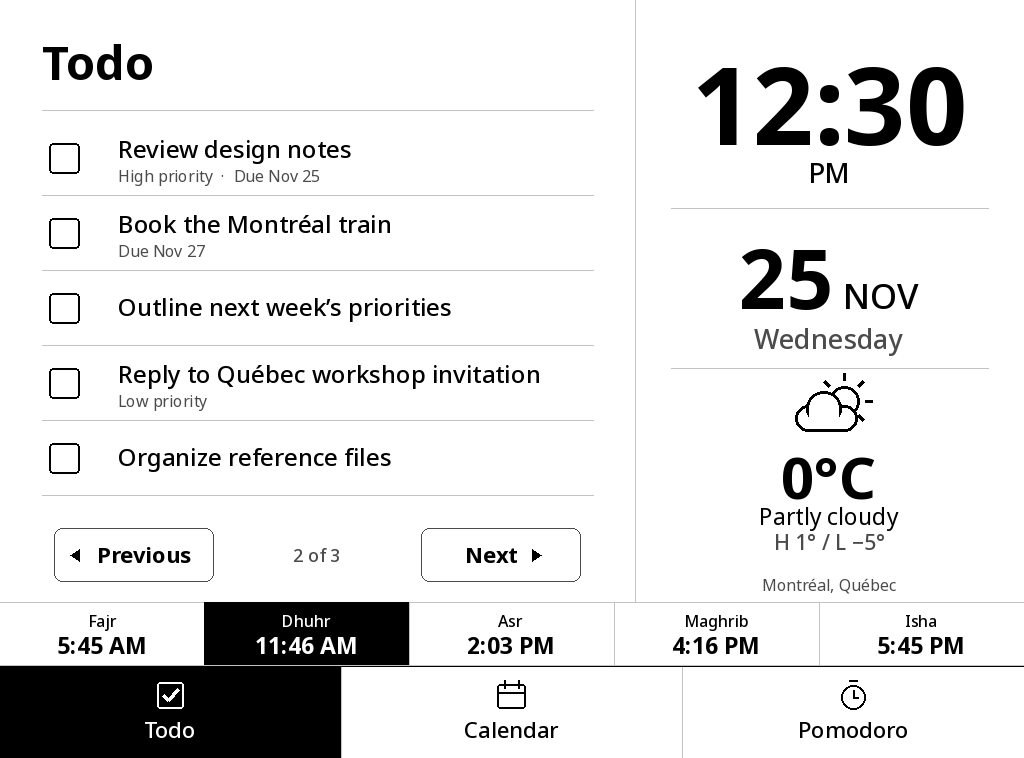
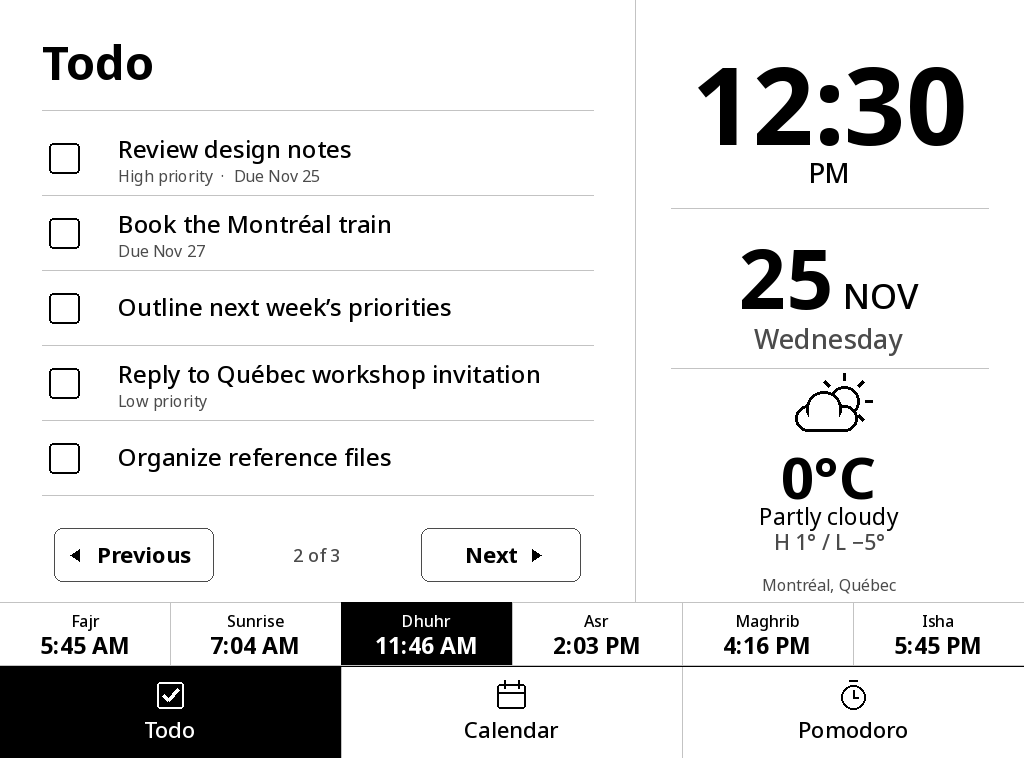
Show Sunrise after Fajr in the Salat strip

diff --git a/backend/tests/test_prayer_times.py b/backend/tests/test_prayer_times.py
@@ -35,10 +35,13 @@ def month_fixtures(month, fajr_hour=6):
 
 
 def schedules(month, fajr_hour=6):
-    return {
-        local.date().isoformat(): [datetime.fromisoformat(value).astimezone(UTC).isoformat() for value in times]
-        for local, times in month_fixtures(month, fajr_hour)
-    }
+    days = {}
+    sunrises = {}
+    for local, times in month_fixtures(month, fajr_hour):
+        day = local.date().isoformat()
+        days[day] = [datetime.fromisoformat(value).astimezone(UTC).isoformat() for value in times]
+        sunrises[day] = local.replace(hour=8, minute=local.day).astimezone(UTC).isoformat()
+    return {**days, "sunrise": sunrises}
 
 
 def test_aladhan_month_timezone_and_calculation_parameters(monkeypatch):
@@ -49,7 +52,10 @@ def test_aladhan_month_timezone_and_calculation_parameters(monkeypatch):
         rows = [{
             "date": {"gregorian": {"date": local.strftime("%d-%m-%Y")}},
             "meta": {"timezone": TORONTO.key},
-            "timings": dict(zip(prayers.PRAYERS, values, strict=True)),
+            "timings": {
+                **dict(zip(prayers.PRAYERS, values, strict=True)),
+                "Sunrise": local.replace(hour=8, minute=local.day).isoformat(),
+            },
         } for local, values in month_fixtures("2026-03")]
         return BytesIO(json.dumps({"code": 200, "data": rows}).encode())
 
@@ -67,6 +73,8 @@ def test_aladhan_month_timezone_and_calculation_parameters(monkeypatch):
     assert result["2026-03-07"][0].startswith("2026-03-07T11:07")
     assert result["2026-03-08"][0].startswith("2026-03-08T10:08")
     assert prayers.time_label(datetime.fromisoformat(result["2026-03-08"][0])) == "6:08 AM"
+    assert result["sunrise"]["2026-03-07"].startswith("2026-03-07T13:07")
+    assert result["sunrise"]["2026-03-08"].startswith("2026-03-08T12:08")
 
 
 def test_current_prayer_through_midnight_and_month_boundary(tmp_path, monkeypatch):
@@ -130,6 +138,20 @@ def test_fall_dst_offline_restart_and_setting_changes(tmp_path, monkeypatch):
         assert prayers.prayer_preferences(session) == initial
         result = prayers.prayer_day(session, initial, now, include_update=True)
         assert result.today[0] == "6:01 AM" and result.current_name == "Fajr" and result.updated_at
+        assert result.sunrise == "8:01 AM"
+        for month in prayers.months_to_cache(now):
+            row = session.get(PrayerMonth, (initial.cache_key(), month))
+            row.days = {day: values for day, values in row.days.items() if day != "sunrise"}
+        session.commit()
+    assert not cache.refresh(reopened, initial, now)
+    with reopened.sessions() as session:
+        legacy = prayers.prayer_day(session, initial, now)
+        assert legacy.sunrise == "--:--" and legacy.today == result.today
+    monkeypatch.setattr(prayers, "fetch_month", fetch)
+    assert prayers.PrayerCache().refresh(reopened, initial, now)
+    with reopened.sessions() as session:
+        assert prayers.prayer_day(session, initial, now).sunrise == "8:01 AM"
+    monkeypatch.setattr(prayers, "fetch_month", offline)
     alternates = initial.model_copy(update={"school": 1})
     assert not cache.refresh(reopened, alternates, now)
     assert not cache.refresh(reopened, alternates, now)
@@ -220,12 +242,15 @@ def test_admin_frame_geometry_and_device_actions(tmp_path, monkeypatch):
 
 def test_same_noninteractive_strip_and_highlight_on_all_pages():
     now = datetime(2026, 11, 25, 12, 30, tzinfo=TORONTO)
-    salat = prayers.PrayerDay(("6:00 AM", "12:00 PM", "3:00 PM", "5:00 PM", "7:00 PM"), "Asr")
+    salat = prayers.PrayerDay(("6:00 AM", "12:00 PM", "3:00 PM", "5:00 PM", "7:00 PM"), "Asr", sunrise="8:00 AM")
     def strip(page, values):
         with Image.open(BytesIO(render_landscape(page, now, "Montréal", Weather("unavailable"), prayers=values))) as png:
             return png.crop((0, PRAYER_Y, WIDTH, NAV_Y))
     strips = [strip(page, salat) for page in ("todo", "calendar", "pomodoro")]
     assert strips[0].tobytes() == strips[1].tobytes() == strips[2].tobytes()
-    assert [strips[0].getpixel((index * WIDTH // 5 + 10, 12)) for index in range(5)] == [255, 255, 0, 255, 255]
+    assert [strips[0].getpixel((index * WIDTH // 6 + 10, 12)) for index in range(6)] == [255, 255, 255, 0, 255, 255]
+    sunrise_cell = (WIDTH // 6 + 1, 0, WIDTH // 3, NAV_Y - PRAYER_Y)
+    legacy = strip("todo", prayers.PrayerDay(salat.today, salat.current_name))
+    assert strips[0].crop(sunrise_cell).tobytes() != legacy.crop(sunrise_cell).tobytes()
     offline = strip("todo", prayers.PrayerDay())
-    assert all(offline.getpixel((index * WIDTH // 5 + 10, 12)) == 255 for index in range(5))
+    assert all(offline.getpixel((index * WIDTH // 6 + 10, 12)) == 255 for index in range(6))

diff --git a/backend/app/services/prayer_times.py b/backend/app/services/prayer_times.py
@@ -71,6 +71,7 @@ class PrayerDay:
     today: tuple[str, ...] = ("--:--",) * len(PRAYERS)
     current_name: str | None = None
     updated_at: str | None = None
+    sunrise: str = "--:--"
 
 
 def prayer_preferences(db) -> PrayerPreferences:
@@ -114,18 +115,23 @@ def fetch_month(config: PrayerPreferences, month: str) -> dict:
     if payload["code"] != 200:
         raise ValueError("AlAdhan did not return a schedule")
     days = {}
+    sunrises = {}
     for row in payload["data"]:
         day = datetime.strptime(row["date"]["gregorian"]["date"], "%d-%m-%Y").date()
         if month_key(day) != month or row["meta"]["timezone"] != TORONTO.key:
             raise ValueError("Wrong schedule month or timezone")
         instants = [datetime.fromisoformat(row["timings"][name]) for name in PRAYERS]
+        sunrise = datetime.fromisoformat(row["timings"]["Sunrise"])
         if any(moment.utcoffset() is None or
-               moment.astimezone(TORONTO).utcoffset() != moment.utcoffset() for moment in instants):
+               moment.astimezone(TORONTO).utcoffset() != moment.utcoffset() for moment in (*instants, sunrise)):
             raise ValueError("Invalid prayer time offset")
-        days[day.isoformat()] = [moment.astimezone(UTC).isoformat() for moment in instants]
+        day_key = day.isoformat()
+        days[day_key] = [moment.astimezone(UTC).isoformat() for moment in instants]
+        sunrises[day_key] = sunrise.astimezone(UTC).isoformat()
     if len(days) != monthrange(year, number)[1]:
         raise ValueError("Incomplete prayer month")
-    return days
+    # Keep the five-value daily rows readable by releases that predate Sunrise.
+    return {**days, "sunrise": sunrises}
 
 
 def time_label(moment: datetime) -> str:
@@ -150,7 +156,11 @@ def prayer_day(db, config: PrayerPreferences, now: datetime, *, include_update=F
     started = ((moment, name) for moment, name in zip(moments, PRAYERS, strict=True) if moment <= current)
     # Before Fajr, the active slot is still the previous day's Isha.
     _, current_name = max(started, key=lambda prayer: prayer[0], default=(None, "Isha"))
-    return PrayerDay(tuple(map(time_label, moments)), current_name, updated_at=updated_at)
+    sunrise = row.days.get("sunrise", {}).get(today.isoformat())
+    return PrayerDay(
+        tuple(map(time_label, moments)), current_name, updated_at=updated_at,
+        sunrise=time_label(datetime.fromisoformat(sunrise)) if sunrise else "--:--",
+    )
 
 
 class PrayerCache:
@@ -170,7 +180,8 @@ class PrayerCache:
             for month in months_to_cache(now):
                 key = (config.cache_key(), month)
                 with database.sessions() as db:
-                    if not force and db.get(PrayerMonth, key):
+                    cached = db.get(PrayerMonth, key)
+                    if not force and cached and "sunrise" in cached.days:
                         continue
                 if not force and key in self.retry_after:
                     success = False

diff --git a/backend/app/rendering/landscape.py b/backend/app/rendering/landscape.py
@@ -190,8 +190,10 @@ def todo(draw, tasks, page_number, page_count, prayer_strip):
 
 def draw_prayer_strip(draw, result: PrayerDay):
     draw.line((0, PRAYER_Y, WIDTH - 1, PRAYER_Y), fill=RULE)
-    for index, (name, timing) in enumerate(zip(PRAYERS, result.today, strict=True)):
-        left, right = index * WIDTH // len(PRAYERS), (index + 1) * WIDTH // len(PRAYERS)
+    entries = list(zip(PRAYERS, result.today, strict=True))
+    entries.insert(1, ("Sunrise", result.sunrise))
+    for index, (name, timing) in enumerate(entries):
+        left, right = index * WIDTH // len(entries), (index + 1) * WIDTH // len(entries)
         center = (left + right) // 2
         selected = name == result.current_name
         color = 255 if selected else INK

diff --git a/scripts/preview-kindle-landscape.py b/scripts/preview-kindle-landscape.py
@@ -38,7 +38,7 @@ def main():
     ]
     prayers = None
     if options.prayer_times:
-        prayers = PrayerDay(("5:45 AM", "11:46 AM", "2:03 PM", "4:16 PM", "5:45 PM"), "Dhuhr")
+        prayers = PrayerDay(("5:45 AM", "11:46 AM", "2:03 PM", "4:16 PM", "5:45 PM"), "Dhuhr", sunrise="7:04 AM")
         examples[0] = ("todo", "todo", tasks[:task_page_size(True)], 2, 3)
     else:
         examples.append(("todo-mixed", "todo", mixed, 2, 3))

diff --git a/README.md b/README.md
@@ -6,7 +6,7 @@ A self-hosted productivity dashboard for Dashboard NAS. Administrators manage ta
 
 Phase 3A is complete and physically verified on the Kindle Paperwhite 2. The KOReader plugin provides a 1024 × 758 interactive Todo dashboard with Calendar and Pomodoro previews. Use Todo to complete or reopen shared tasks, with updates synchronized to the web administration interface. The existing portrait TRMNL client continues to work.
 
-Version 0.3.1 adds a Salat times strip above the navigation buttons on Todo, Calendar, and Pomodoro. It shows the five daily prayers in AM/PM format. The highlight moves when each prayer starts. Isha stays highlighted until Fajr. Schedules are fetched from AlAdhan and cached in SQLite for the current and following months, so cached times stay available during an AlAdhan outage. The strip was verified on a physical Kindle.
+Version 0.3.1 adds a Salat times strip above the navigation buttons on Todo, Calendar, and Pomodoro. It shows the five daily prayers and displays Sunrise immediately after Fajr, with all times in AM/PM format. The highlight moves when each prayer starts. Isha stays highlighted until Fajr. Schedules are fetched from AlAdhan and cached in SQLite for the current and following months, so cached times stay available during an AlAdhan outage. The strip was verified on a physical Kindle.
 
 - [Salat times release](https://github.com/RahatulAmin/kindle-dashboard/releases/tag/v0.3.1)
 - [Phase 3A release and verified plugin ZIP](https://github.com/RahatulAmin/kindle-dashboard/releases/tag/v0.3.0)
